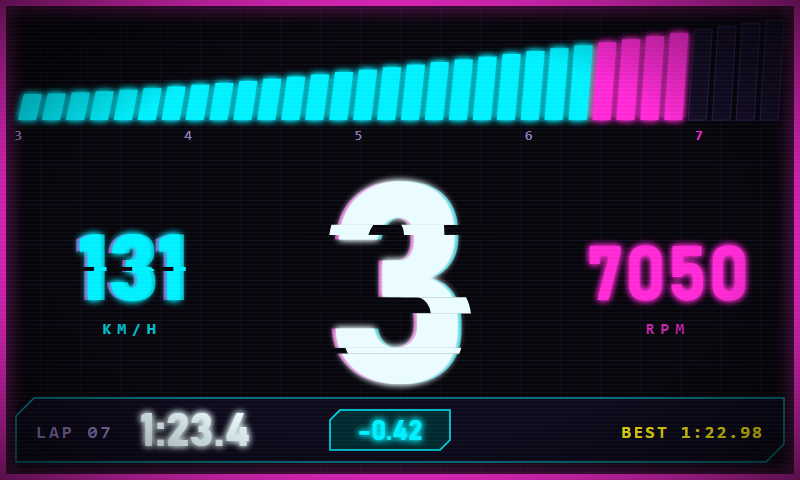
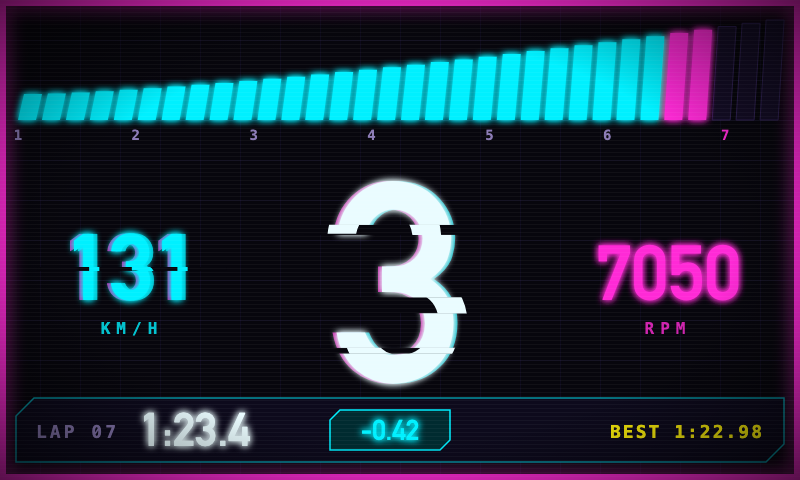
Meters: TRACK shift bars from 1000 rpm
The shift bars on the three TRACK pages (track, cyber, 2077) start at
1000 rpm instead of 3000, with the scale labelled 1-7, so the page is also
readable in daily driving. The start is one value, RPM.low in app.js.
Colour thresholds are unchanged; the tachometers on the other pages are
not touched. The mockups follow (BAR_LO in make_mockups.py).

The two track PNGs were rendered on macOS with stand-in fonts (DIN
Condensed, DIN Alternate, Menlo) and should be re-rendered from the SVGs
on Windows.

Claude-Session: https://claude.ai/code/session_01E6io7fgNMvVrAsTwGfsEeF

diff --git a/meters/js/app.js b/meters/js/app.js
@@ -53,7 +53,7 @@
     // Rev limits of the ND1 1.5 (P5): 131 PS at 7000 rpm, 150 Nm at 4800 rpm, Mazda's redline 7000 rpm, fuel cut
     // around 7500 (owner reports). Power stays near its peak to the limiter and the gears are close, so the
     // quickest upshift is late: SHIFT leaves ~0.25 s of reaction time before the cut in 2nd/3rd.
-    var RPM = { amber: 6500, red: 7000, shift: 7200, limit: 7500 };
+    var RPM = { low: 1000, amber: 6500, red: 7000, shift: 7200, limit: 7500 };   // low: start of the TRACK shift bars
     function rpmBand(r) { return r >= RPM.red ? C.red : (r >= RPM.amber ? C.amber : C.band); }
 
     // Readable on the 7" screen: few things per page, numbers at least ~50 px, labels ~20 px.
@@ -230,7 +230,7 @@
     // ------------------------------------------------------------------ TRACK: shift bar + giant gear
     // Made to be read from the corner of your eye: one full-width rpm bar, the gear, nothing else unless hot.
     function trackPage() {
-        var N = 30, X0 = 16, W = 768, Y = 16, H = 104, LO = 3000, HI = RPM.limit, sw = W / N;
+        var N = 30, X0 = 16, W = 768, Y = 16, H = 104, LO = RPM.low, HI = RPM.limit, sw = W / N;
         function segCol(i) {
             var r = LO + (i + 1) * (HI - LO) / N;
             return r > RPM.red ? C.red : (r > RPM.amber ? C.amber : C.green);
@@ -242,7 +242,7 @@
                 var i, r;
                 ctx.fillStyle = C.track;
                 for (i = 0; i < N; i++) seg(ctx, i);
-                for (r = 3000; r <= 7000; r += 1000) {
+                for (r = LO; r <= 7000; r += 1000) {
                     text(ctx, String(r / 1000), X0 + (r - LO) / (HI - LO) * W, Y + H + 20, 18, C.dim, 'center', true);
                 }
                 text(ctx, 'km/h', 130, 372, 22, C.dim, 'center', true);

diff --git a/meters/js/cyber.js b/meters/js/cyber.js
@@ -211,7 +211,7 @@
 
     // ================================================================== CYBER TRACK
     function track(A) {
-        var N = 32, X0 = 18, W = 24, STEP = (784 - X0) / N, LO = 3000, HI = A.RPM.limit;
+        var N = 32, X0 = 18, W = 24, STEP = (784 - X0) / N, LO = A.RPM.low, HI = A.RPM.limit;
         function bar(c, i) {
             var h = 26 + 74 * Math.pow(i / (N - 1), 1.4), x = X0 + i * STEP;
             FX.poly(c, [[x + 6, 120 - h], [x + W, 120 - h], [x + W - 6, 120], [x, 120]]);
@@ -229,7 +229,7 @@
                 FX.backdrop(c, BG, GRID);
                 c.fillStyle = OFF; c.strokeStyle = OFFL; c.lineWidth = 1;
                 for (i = 0; i < N; i++) { bar(c, i); c.fill(); c.stroke(); }
-                for (k = 3; k <= 7; k++) {
+                for (k = LO / 1000; k <= 7; k++) {
                     x = X0 + (k * 1000 - LO) / (HI - LO) * (784 - X0);
                     FX.text(c, String(k), x, 140, 14, FX.MONO, k >= 7 ? MG : DIM, 'center');
                 }

diff --git a/meters/js/y2077.js b/meters/js/y2077.js
@@ -169,7 +169,7 @@
 
     // ================================================================== 2077 TRACK
     function track(A) {
-        var N = 24, X0 = 16, STEP = (784 - X0) / N, LO = 3000, HI = A.RPM.limit;
+        var N = 24, X0 = 16, STEP = (784 - X0) / N, LO = A.RPM.low, HI = A.RPM.limit;
         function bar(c, i) {
             var x = X0 + i * STEP;
             FX.poly(c, [[x + 8, 18], [x + STEP - 7 + 8, 18], [x + STEP - 7, 118], [x, 118]]);
@@ -181,7 +181,7 @@
                 FX.backdrop(c, K, GRID);
                 c.fillStyle = '#3a3a36';
                 for (i = 0; i < N; i++) { bar(c, i); c.fill(); }
-                for (k = 3; k <= 7; k++) {
+                for (k = LO / 1000; k <= 7; k++) {
                     x = X0 + (k * 1000 - LO) / (HI - LO) * (784 - X0);
                     FX.text(c, String(k), x, 144, 22, F, k >= 7 ? RD : Y, 'center');
                 }

diff --git a/meters/design/make_mockups.py b/meters/design/make_mockups.py
@@ -11,6 +11,7 @@ CY, MG, YE = '#00f0ff', '#ff2bd6', '#fcee0a'
 OFF_FILL, OFF_LINE = '#140d26', '#2e2052'
 SANS = "Bahnschrift, 'Segoe UI', sans-serif"
 MONO = "Consolas, 'Courier New', monospace"
+BAR_LO = 1000   # rpm where the TRACK shift bars start (meters/js/app.js RPM.low)
 
 _id = [0]
 def uid(p):
@@ -232,7 +233,7 @@ def neon_track():
     step = (784 - x0) / N
     off, on = '', ''
     for i in range(N):
-        r_hi = 3000 + (i + 1) * 4500 / N
+        r_hi = BAR_LO + (i + 1) * (7500 - BAR_LO) / N
         h = 26 + 74 * (i / (N - 1)) ** 1.4
         x = x0 + i * step
         pts = '%.1f,%.1f %.1f,%.1f %.1f,%.1f %.1f,%.1f' % (x + 6, 120 - h, x + 6 + w - 6, 120 - h, x + w - 6, 120, x, 120)
@@ -241,8 +242,8 @@ def neon_track():
         else:
             off += f'<polygon points="{pts}" fill="{OFF_FILL}" stroke="{OFF_LINE}"/>'
     o += off + '\n' + f'<g filter="url(#glow)">{on}</g>\n'
-    for k in range(3, 8):
-        x = x0 + (k * 1000 - 3000) / 4500 * (784 - x0)
+    for k in range(BAR_LO // 1000, 8):
+        x = x0 + (k * 1000 - BAR_LO) / (7500 - BAR_LO) * (784 - x0)
         o += t(round(x, 1), 140, str(k), 14, MG if k >= 7 else DIM, 'middle', MONO, 700)
     # giant gear
     o += glitch(400, 382, '3', 280, TXT, slices=((0.58, 0.66, 14), (0.22, 0.27, -10), (0.83, 0.86, 6)))
@@ -393,13 +394,13 @@ def y_track():
     N, x0 = 24, 16
     step = (784 - x0) / N
     for i in range(N):
-        r_hi = 3000 + (i + 1) * 4500 / N
+        r_hi = BAR_LO + (i + 1) * (7500 - BAR_LO) / N
         x = x0 + i * step
         pts = [(x + 8, 18), (x + step - 7 + 8, 18), (x + step - 7, 118), (x, 118)]
         o += poly(pts, (RD if r_hi > 7000 else Y) if r_hi <= rpm else '#3a3a36')
     o += '\n'
-    for k in range(3, 8):
-        x = x0 + (k * 1000 - 3000) / 4500 * (784 - x0)
+    for k in range(BAR_LO // 1000, 8):
+        x = x0 + (k * 1000 - BAR_LO) / (7500 - BAR_LO) * (784 - x0)
         o += yt(round(x, 1), 144, str(k), 22, RD if k >= 7 else Y, 'middle')
     o += chamfer(296, 156, 208, 228, 30, fill=Y, stroke=Y, op=1)
     o += yt(400, 378, '3', 236, K, 'middle')

diff --git a/meters/README.md b/meters/README.md
@@ -32,7 +32,7 @@ reaches further in, alternating with no ring.
 
 | Page | What's on it |
 |---|---|
-| TRACK | For reading from the corner of your eye: a full-width rpm bar 3000–7500 (green, amber from 6500, red from 7000, the whole bar flashes blue from 7200), a giant gear number, speed and rpm. Coolant only takes space when it is 105 °C or hotter (a red box) |
+| TRACK | For reading from the corner of your eye: a full-width rpm bar 1000–7500 (green, amber from 6500, red from 7000, the whole bar flashes blue from 7200), a giant gear number, speed and rpm. Coolant only takes space when it is 105 °C or hotter (a red box) |
 | LAP | Lap timer: tap the screen at the start/finish line (or `L`). Taps less than 5 s after the lap start are ignored and say TOO SOON. Long-press (1.2 s) stops the timer and drops the lap in progress (finished laps stay); with the timer stopped a long-press goes back as usual. Current lap time, the difference of the last lap to the best one (green faster, red slower), last, best and top speed of the last lap |
 | G-METER | The same G-meter page |
 | POWER | The same POWER page |
